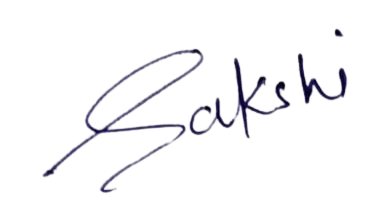
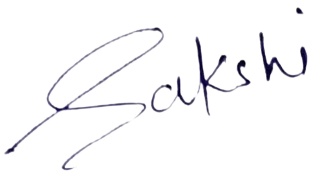
table padding  reduce

diff --git a/src/assets/component/InvoiceDetails.jsx b/src/assets/component/InvoiceDetails.jsx
@@ -90,13 +90,13 @@ function InvoiceDetails({ invoiceId }) {
     return (
         <>
             <div className='printdata border-2 my-2 font-mono mx-2'>
-                <p className="text-3xl font-bold bg-gray-300 text-center">Tax Invoice</p>
+                <p className="text-2xl font-bold bg-gray-300 text-center">Tax Invoice</p>
                 <div className="flex justify-between items-center px-4 py-2 bg-gray-300">
                     <div className="flex items-center">
-                        <img src={logo} alt="Your Company Logo" className="w-20 h-20 mr-2" />
+                        <img src={logo} alt="Your Company Logo" className="w-16 h-16 mr-2" />
                     </div>
                     <div className="flex-1 text-center">
-                        <p className="text-4xl  font-custom text-center fugaz-one-regular">Sakshi Enterprises</p>
+                        <p className="text-3xl font-custom text-center fugaz-one-regular">Sakshi Enterprises</p>
                     </div>
                     <div className="text-right">
                         <p className="text-sm font-bold">GSTIN: 070URPS6573P1ZY</p>
@@ -105,71 +105,71 @@ function InvoiceDetails({ invoiceId }) {
                 </div>
 
                 <div className="flex flex-col content-center bg-gray-300">
-                    <p className="text-center">D-435, Gali No.-59,Mahavir Enclave,Part-3,West Delhi-110059</p>
-                    <p className="text-center">E-mail id:manojsharma.2016m@gmail.com</p>
+                    <p className="text-sm text-center">D-435, Gali No.-59,Mahavir Enclave,Part-3,West Delhi-110059</p>
+                    <p className="text-sm text-center">E-mail id: manojsharma.2016m@gmail.com</p>
                 </div>
-                <div className="bg-gray-100 p-4 pb-2">
-                    <div className="grid grid-cols-1 gap-4 sm:grid-cols-2">
-                        <div className='text-left'>
-                            <p className="text-sm">M/s: <span className="font-semibold">{firstPart} <br /> {secondPart}  </span></p>
-                            <p className="text-sm">GSTIN: <span className="font-semibold">{invoiceDetails.gstin}</span></p>
-                            <p className="text-sm">State: <span className="font-semibold">{invoiceDetails.state}</span></p>
-                        </div>
-                        <div className='text-left'>
-                            <p className="text-sm">State Code: <span className="font-semibold">{invoiceDetails.stateCode}</span></p>
-                            <p className="text-sm">Invoice No: <span className="font-semibold">{invoiceDetails.invoiceNo}</span></p>
-                            <p className="text-sm">Invoice Date: <span className="font-semibold">{formatDate(invoiceDetails.invoiceDate)}</span></p>
-                        </div>
-                    </div>
-                </div>
-                <div className="bg-gray-100 overflow-x-auto p-2">
+
+                <div className="bg-gray-100 overflow-x-auto ">
                     <table className="w-full table-auto sm:min-w-full">
                         <thead>
                             <tr className="bg-gray-200">
-                                <th className="border px-2 py-2">S.No</th>
-                                <th className="border px-2 py-2">Description</th>
-                                <th className="border px-2 py-2">HSN/SAC Code</th>
-                                <th className="border px-2 py-2">Quantity</th>
-                                <th className="border px-2 py-2">Rate</th>
-                                <th className="border px-2 py-2">Total Value</th>
+                                <th className="border px-1 py-1">S.No</th>
+                                <th className="border px-1 py-1">Description</th>
+                                <th className="border px-1 py-1">HSN/SAC Code</th>
+                                <th className="border px-1 py-1">Quantity</th>
+                                <th className="border px-1 py-1">Rate</th>
+                                <th className="border px-1 py-1">Total Value</th>
                             </tr>
                         </thead>
                         <tbody>
                             {items.map((item, index) => (
                                 <tr key={index} className="text-center">
-                                    <td className="border px-2 py-2">{index + 1}</td>
-                                    <td className="border px-2 py-2">{item.description}</td>
-                                    <td className="border px-2 py-2">{item.hsnAsc}</td>
-                                    <td className="border px-2 py-2">{item.quantity}</td>
-                                    <td className="border px-2 py-2">{item.rate}</td>
-                                    <td className="border px-2 py-2">{item.totalValue}</td>
+                                    <td className="border px-1 py-1">{index + 1}</td>
+                                    <td className="border px-1 py-1">{item.description}</td>
+                                    <td className="border px-1 py-1">{item.hsnAsc}</td>
+                                    <td className="border px-1 py-1">{item.quantity}</td>
+                                    <td className="border px-1 py-1">{item.rate}</td>
+                                    <td className="border px-1 py-1">{item.totalValue}</td>
                                 </tr>
                             ))}
+                            <tr className="bg-gray-200">
+                                <td colSpan="4" className="border px-1 py-1">Grand Total (In Words): <span className="font-semibold">{invoiceDetails.grandTotalInWords}</span></td>
+                                <td className="border px-1 py-1">Subtotal:</td>
+                                <td className="border px-1 py-1">{subtotal !== undefined ? subtotal.toFixed(2) : '-'}</td>
+                            </tr>
+                            <tr className="bg-gray-200">
+                                <td colSpan="4"></td>
+                                <td className="border px-1 py-1">Freight</td>
+                                <td className="border px-1 py-1">{invoiceDetails.freightCharges}</td>
+                            </tr>
+                            <tr className="bg-gray-200">
+                                <td colSpan="4"></td>
+                                <td className="border px-1 py-1">CGST:</td>
+                                <td className="border px-1 py-1">{invoiceDetails.cgst}</td>
+                            </tr>
+                            <tr className="bg-gray-200">
+                                <td colSpan="4"></td>
+                                <td className="border px-1 py-1">SGST:</td>
+                                <td className="border px-1 py-1">{invoiceDetails.sgst}</td>
+                            </tr>
+                            <tr className="bg-gray-200">
+                                <td colSpan="4"></td>
+                                <td className="border px-1 py-1">IGST:</td>
+                                <td className="border px-1 py-1">{invoiceDetails.igst}</td>
+                            </tr>
+                            <tr className="bg-gray-200">
+                                <td colSpan="4"></td>
+                                <td className="border px-1 py-1">Grand Total:</td>
+                                <td className="border px-1 py-1">{invoiceDetails.grandTotal}</td>
+                            </tr>
                         </tbody>
                     </table>
                 </div>
 
-                <div className="bg-gray-100 p-4">
-                    <div className="grid grid-cols-1 gap-4 mt-2 sm:grid-cols-2">
-                        <div>
-                            <p className="text-sm">Grand Total (In Words): <span className="font-semibold">{invoiceDetails.grandTotalInWords}</span></p>
-                        </div>
-                        <div className='text-left'>
-                            <p className="text-sm">Total: <span className="font-semibold">{subtotal !== undefined ? subtotal.toFixed(2) : '-'}</span></p>
-                            <p className="text-sm">Freight Charges: <span className="font-semibold">{invoiceDetails.freightCharges}</span></p>
-                            <p className="text-sm">CGST: <span className="font-semibold">{invoiceDetails.cgst}</span></p>
-                            <p className="text-sm">SGST: <span className="font-semibold">{invoiceDetails.sgst}</span></p>
-                            <p className="text-sm">IGST: <span className="font-semibold">{invoiceDetails.igst}</span></p>
-                            <p className="text-sm">Grand Total: <span className="font-semibold">{invoiceDetails.grandTotal}</span></p>
-                        </div>
-                    </div>
-                </div>
-
-
                 <div className="bg-gray-200 p-4 px-8 flex justify-between">
                     <div>
-                        <p className="text-sm text-gray-500">Terms & Conditions: </p>
-                        <ul className="list-disc pl-4 text-gray-600 text-left">
+                        <p className="text-xs text-gray-500">Terms & Conditions: </p>
+                        <ul className="list-disc pl-2 text-sm text-gray-600 text-left">
                             <li>All disputes are subject to jurisdiction of Delhi Courts</li>
                             <li>Payment should be made by cash/cheque/draft only.</li>
                             <li>Late payment will be charged if bill unpaid for 15 days.</li>
@@ -178,15 +178,17 @@ function InvoiceDetails({ invoiceId }) {
                     <div className="text-right relative">
                         <p className="text-sm">For Sakshi Enterprises</p>
                         <p className="text-sm absolute bottom-0 right-0">Authorised Signatory</p>
-                        <img src={signature} alt="Signature" className="absolute top-0 left-0 right-0 mx-auto mt-4 w-44 h-auto" />
+                        <img src={signature} alt="Signature" className="absolute top-0 left-0 right-0 mx-auto mt-4 w-36 h-auto" />
                         {/* <img src={stamp} alt="stamp" className="absolute top-0 left-0 right-0 mx-auto mt-4 w-80 h-auto" /> */}
                     </div>
                 </div>
             </div>
+
             <div className='mb-12 pb-10 text-center'>
                 <button onClick={handlePrint} className="bg-blue-500 text-white px-4 py-2 rounded hover:bg-blue-600 print-hidden">Print</button>
             </div>
         </>
+
     );
 }
 
